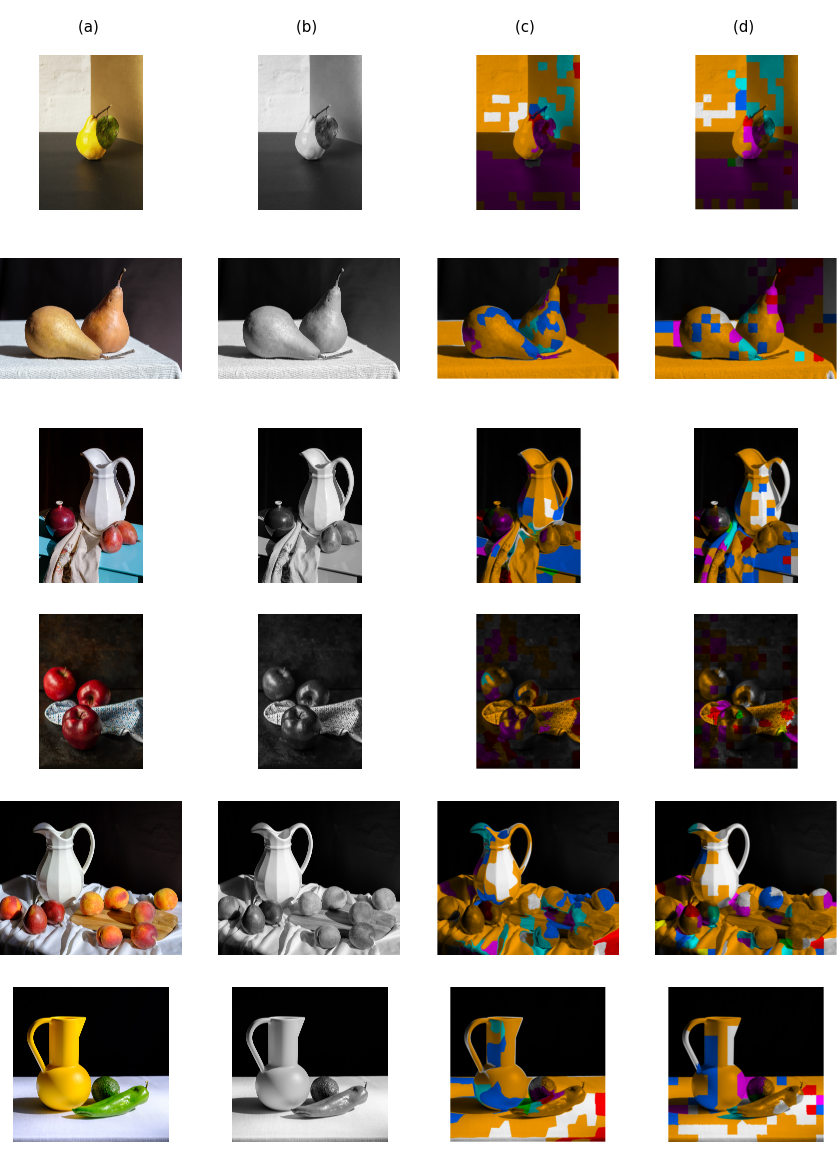
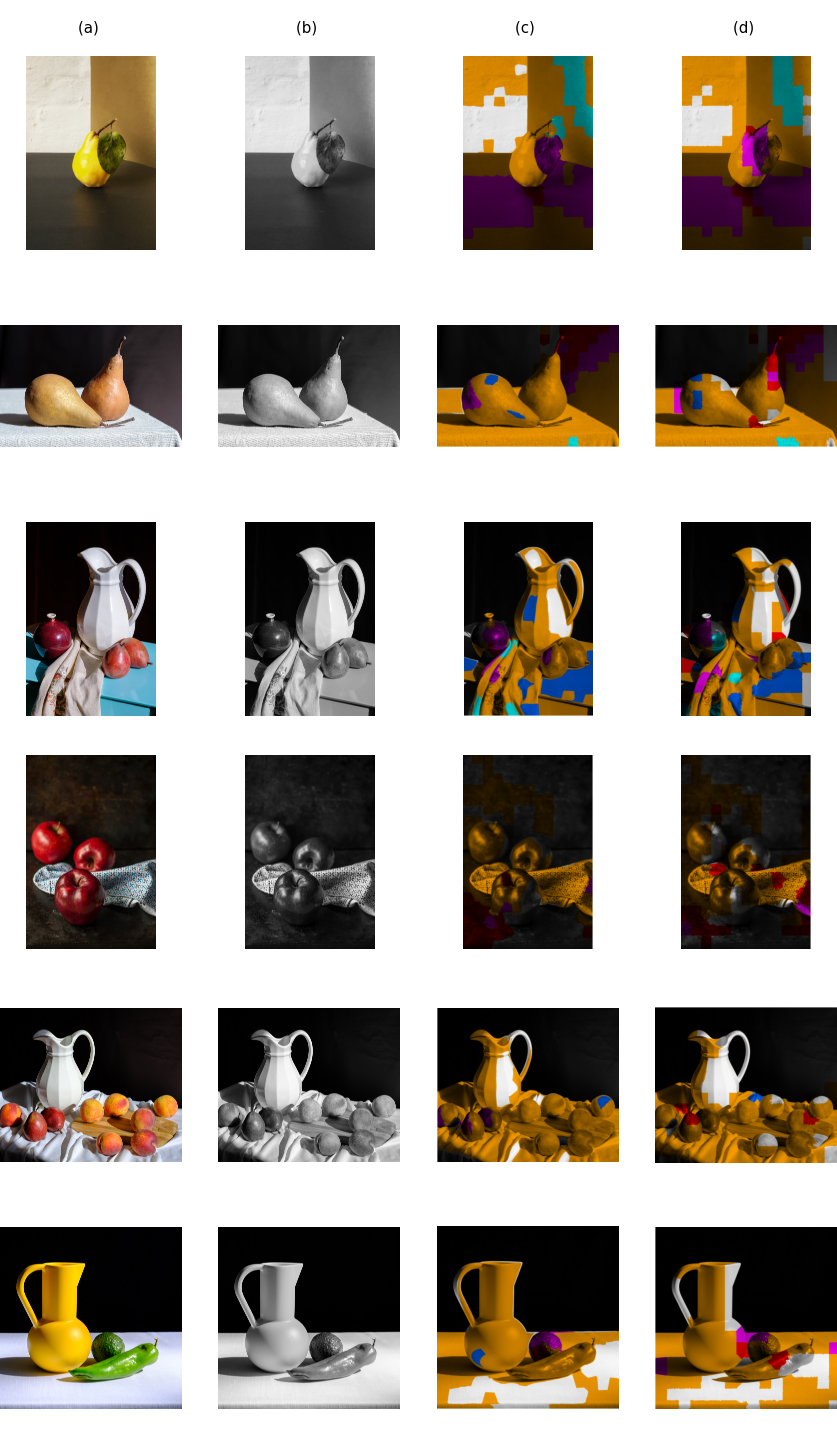
Final touches, fixing some typeos and finishing superpixel part.

diff --git a/diplomamunka/chapters/5_colorization.tex b/diplomamunka/chapters/5_colorization.tex
@@ -308,16 +308,18 @@ A modell pontosságát maximum 72\%-ra tudtam megnöveli, és sajnos így sem pr
 
 \begin{figure}[h]
 \centering
-\includegraphics[scale=0.5]{images/result_all_superpixel.png}
+\includegraphics[scale=0.4]{images/result_all_superpixel.png}
 \caption{A vizsgálatok futtatása CNN színezéssel az összes Szuperpixel módszerekkel klaszterezett teszt képre. Az oszlopok a következő képeket tartalmazzák: (a) eredeti, színes kép (b) eredeti, szürkeárnyalatos kép (c) SLIC módszerrel szegmentált kép HSV színtérben színezve (d) Watershed módszerrel szegmentált kép HSV színtérben}
 \label{fig:result_all_superpixel}
 \end{figure}
 
-K-measn esetén adott klaszterhez a szín meghatározása többségi döntés alapján történik, miután kinyertem a minta ablakokat és szegmentáltam őket. Az egy címkét kapott ablakokat átadom a CNN modellemnek, majd a CNN által meghatározott címke számlálóját növelem. Amire a legtöbb szavazat érkezik egy adott címkén belül, az a győztes szín.
-
-A szuperpixel módszerek esetén minden szuperpixelre egy vizsgálatot végzek, és annak a predikciónak az eredménye lesz a kapott szín. Szembetűnő, hogy csak a különböző szuperpixeleket vizsgálva gyakori, hogy az azonos objektumokon belül más-más színeket jósol. Ezt lehetne javítani több mintavétellel az adott szuperpixeleken belül. Az is jól látszik, hogy a SLIC esetén a színezés szebben megvalósult, mint a Watershed esetén. 
+K-means esetén adott klaszterhez a szín meghatározása többségi döntés alapján történik, miután kinyertem a minta ablakokat és szegmentáltam őket. Az egy címkét kapott ablakokat átadom a CNN modellemnek, majd a CNN által meghatározott címke számlálóját növelem. Amire a legtöbb szavazat érkezik egy adott címkén belül, az a győztes szín.
 
 Az \ref{fig:result_all_kmeans}. ábrán megfigyelhető, hogy bár például a 2. képen a körtén belül több szegmenst határozott meg a K-means, a CNN mindegyik szegmensnek ugyanazt a színt jósolta, így a körte egy színű lett. Viszont az is látható, hogy ugyan ezt nem tudta megvalósítani az 1. képen.
+
+A szuperpixel módszerek esetén minden szuperpixelre 20 ablakot viszgálok, az ablakok kezdőpontját random határozom meg. A szín döntése csak úgy, mint a K-means esetén, többségi döntés alapján születik. 
+
+Az \ref{fig:result_all_superpixel}. ábrán szembetűnő, hogy csak a különböző szuperpixeleket vizsgálva gyakori, hogy az azonos objektumokon belül más-más színeket jósol. Ezt lehetne javítani több mintavétellel az adott szuperpixeleken belül, viszont az a futási időt megnövelné. Az is jól látszik, hogy a SLIC módszer jobb színezést eredményez, mint a Watershed módszer. Az összes módszer közül egyedül a SLIC volt az, ami a színezésnél el tudta különíteni a 6. képen az avokádót a többi objektumtól, és más színre színezte.
 
 Ami szembetűnő, hogy a modell sok esetben sárga és fehér színeket jósol az adott ablakokra. Ez abból eredhet, hogy a tanító halmazban több sárga szín található, mint zöld vagy kék, viszont a sárga szín csökkentésével sem értem el jobb eredményt, abban az esetben egy másik színt használt ugyan olyan gyakorisággal. A legtöbbször előforduló szín a minták során a fekete, a színek meghatározásánál viszont a modell nagyon ritkán jósolt fekete színt egy adott klaszterhez. 
 

diff --git a/diplomamunka/chapters/6_implementation.tex b/diplomamunka/chapters/6_implementation.tex
@@ -34,6 +34,8 @@ Ezekben a modulokban található metódusok többnyire szó szerint a munkafüze
 
 A programot azért készítettem el, mivel így egyszerűen le lehet futtatni az összes vizsgálatot egy adott képre, ezen kívül könnyedén végig követhető az a folyamat, ami alatt a szürkeárnyalatos képből színes képet kapunk. A \texttt{main} modul a konzolra kiírja, hogy éppen milyen nevű képnél tart, és hogy a vizsgálat mely fázisát fejezte már be.
 
+A futási idejét tekintve a programnak a CNN modell betanítása átlagban 5 percet, a K-means vizsgálatok átlagban 20 percet, míg a szuperpixeles vizsgálatok átlagban 10 percet vesznek igénybe. Természetesen ezek a futási idők a modell tanításának a kivételével nagyban függnek a teszt képek méretétől. A futási időket csökkentettem azzal, hogy minden képet átméretezek a vizsgálatok előtt 1024px magasságúra. Így, ha minden képre lefuttatok minden vizsgálatot, akkor olyan 3 óra a teljes futási idő.
+
 \Section{Jupyter munkafüzetek használata}
 
 A vizsgálatok során a kódrészleteket Jupyter munkafüzetekben készítettem el, ott teszteltem őket. A kutatásom során a következő munkafüzetek készültek el.

diff --git a/diplomamunka/dolgozat.tex b/diplomamunka/dolgozat.tex
@@ -45,7 +45,7 @@
 \bibliographystyle{unsrt}
 \bibliography{dolgozat}
 
-\noindent \textit{Az internetes források utolsó ellenőrzése: 2021.10.05}
+\noindent \textit{Az internetes források utolsó ellenőrzése: 2022.05.02}
 
 \pagestyle{empty}
 
